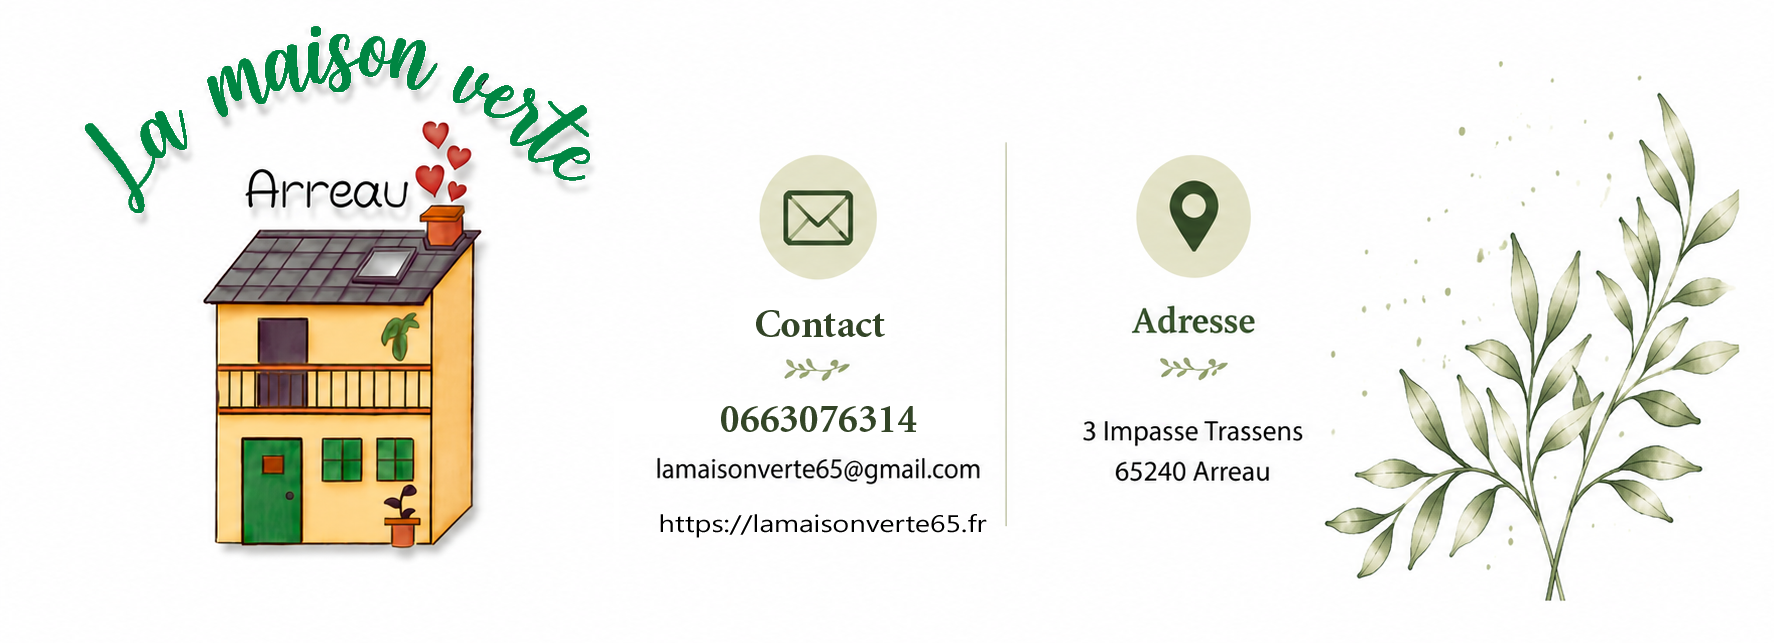
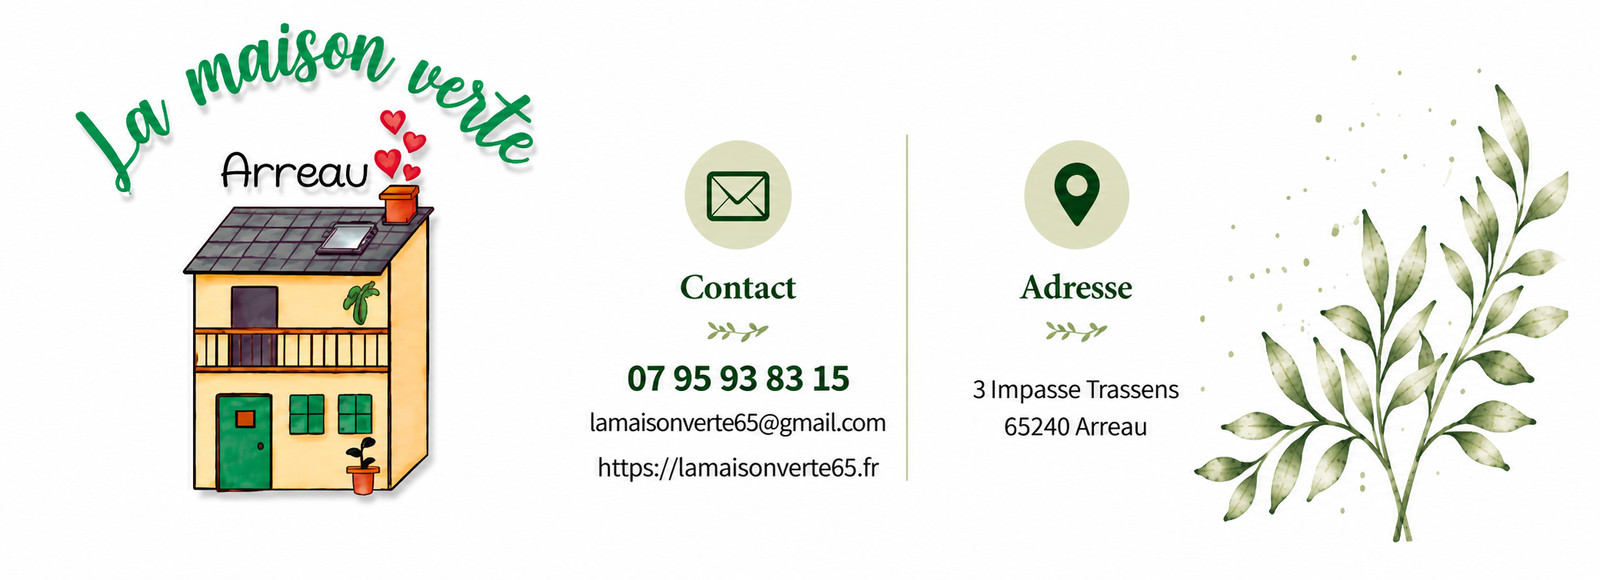
feat: harmonise les informations publiques du logement

diff --git a/src/pages/LivretAccueil.jsx b/src/pages/LivretAccueil.jsx
@@ -327,7 +327,7 @@ export default function LivretAccueil() {
               </div>
 
               <p>Le tableau électrique se situe derrière la porte d'entrée.</p>
-              <p>Le Wi-Fi est disponible dans le logement. La télévision est directement reliée à Internet par câble Ethernet. Les informations de connexion au Wi-Fi vous sont communiquées avant votre arrivée.</p>
+              <p>Le Wi-Fi 7 est disponible dans le logement. La télévision est directement reliée à Internet par câble Ethernet. Les informations de connexion au Wi-Fi vous sont communiquées avant votre arrivée.</p>
               <p>Une poubelle de tri est à votre disposition dans le logement. Les conteneurs de tri sont situés à l'entrée du parking du Monument aux Morts. En sortant de l'impasse, tournez à droite puis continuez tout droit.</p>
               <p>De l'huile, du sel, du sucre, du café ainsi que quelques condiments sont laissés à votre disposition pour faciliter votre arrivée ou les courts séjours, merci de ne pas en abuser.</p>
               <p>Vous trouverez aussi des tablettes de lave vaisselle sous l'évier.</p>
@@ -383,12 +383,15 @@ export default function LivretAccueil() {
               <h2>Linge de maison</h2>
             </div>
 
+            <p>Les serviettes de toilette sont fournies : une grande serviette 70 × 140 cm et une petite serviette 33 × 50 cm par personne.</p>
+
             <p>Merci de déposer le linge utilisé dans la buanderie :</p>
 
             <ul>
               <li>draps ;</li>
               <li>housses de couette ;</li>
               <li>taies d'oreiller ;</li>
+              <li>serviettes de toilette ;</li>
               <li>tapis de salle de bain ;</li>
               <li>torchons.</li>
             </ul>
@@ -401,24 +404,15 @@ export default function LivretAccueil() {
             </div>
 
             <p>
-              Aucun forfait ménage n'est inclus dans votre réservation.
+              Si vous avez choisi le forfait ménage de fin de séjour lors de votre réservation,
+              vous n'avez pas à effectuer le ménage complet avant votre départ.
             </p>
             <p>
-              Nous vous remercions de rendre le logement dans un état
-              de propreté similaire à celui dans lequel vous l'avez trouvé
-              à votre arrivée.
+              Si vous avez choisi d'effectuer vous-même le ménage de fin de séjour,
+              merci de rendre le logement dans un état de propreté similaire à celui
+              dans lequel vous l'avez trouvé à votre arrivée.
             </p>
-            <p>Vous trouverez tous les éléments sous l'évier et dans la buanderie</p>
-
-            <p>
-              Si vous préférez ne pas effectuer le ménage de fin de séjour,
-              merci de nous contacter avant votre départ.
-            </p>
-
-            <p>
-              Selon nos disponibilités, nous pourrons vous proposer
-              un forfait ménage de 30 €.
-            </p>
+            <p>Vous trouverez tous les éléments nécessaires sous l'évier et dans la buanderie.</p>
           </article>
 
           <article className="livret-info-card">
@@ -1085,6 +1079,7 @@ export default function LivretAccueil() {
                       <li><span>2</span>Grandes tasses vert/noir</li>
                       <li><span>2</span>Grands bols noir/vert</li>
                       <li><span>1</span>Grille-pain</li>
+                      <li><span>1</span>Congélateur</li>
                       <li><span>1</span>Passoire</li>
                       <li><span>1</span>Petite louche</li>
                       <li><span>6</span>Petites cuillères</li>

diff --git a/src/pages/MaisonVerte.jsx b/src/pages/MaisonVerte.jsx
@@ -57,7 +57,7 @@ export default function MaisonVerte() {
   const [openFaqCategory, setOpenFaqCategory] = useState(null);
   const googleReviewUrl = "https://g.page/r/CasA-_8IxkGjEBM/review";
   const googleProfileUrl = "https://g.page/r/CasA-_8IxkGjEBM";
-  const ENABLE_SITE_REVIEWS = false;
+  const ENABLE_SITE_REVIEWS = true;
   const galleryPhotos = [
     {
       src: "/salon-salle-a-manger-maison-verte.webp",
@@ -864,7 +864,7 @@ export default function MaisonVerte() {
               "https://lamaisonverte65.fr/balcon-plein-sud-ouest.webp",
               "https://lamaisonverte65.fr/halle-et-mairie-arreau.webp",
             ],
-            telephone: "+33663076314",
+            telephone: "+33795938315",
             email: "lamaisonverte65@gmail.com",
             address: {
               "@type": "PostalAddress",
@@ -932,7 +932,7 @@ export default function MaisonVerte() {
                 },
                 {
                   "@type": "LocationFeatureSpecification",
-                  name: "Wi-Fi",
+                  name: "Wi-Fi 7",
                   value: true,
                 },
                 {
@@ -1409,6 +1409,7 @@ export default function MaisonVerte() {
               <div>⛷ Situation centrale stratégique </div>
               <div>🚴 Hébergement idéal pour cyclistes</div>
               <div>🏍 Accueil pratique pour motards</div>
+              <div>📶 Wi-Fi 7</div>
               <div>🤝 Réservation directe propriétaire</div>
               <div>🐕 Animaux non acceptés</div>
             </div>
@@ -1427,9 +1428,9 @@ export default function MaisonVerte() {
             "Cuisine équipée",
             "Machine à laver",
             "Lave-vaisselle",
-            "Mini congélateur",
+            "Congélateur",
             "Smart TV",
-            "Wi-Fi",
+            "Wi-Fi 7",
             "Cafetière italienne",
             "Cafetière à filtres",
             "Bouilloire",
@@ -1440,7 +1441,8 @@ export default function MaisonVerte() {
             "Lit parapluie",
             "58 m²",
             "Balcon avec table et chaises",
-            "Linge de lit fourni",
+            "Linge de lit et serviettes fournis",
+            "Poubelle de tri",
             "Animaux non acceptés",
             "Réservation directe propriétaire",
             "Parking gratuit proche",
@@ -1989,7 +1991,7 @@ export default function MaisonVerte() {
                   9,5/10
                 </div>
 
-                <p>Basé sur 44 expériences vécues</p>
+                <p>Basé sur 50 expériences vécues</p>
 
                 <div
                   style={{
@@ -3442,7 +3444,7 @@ export default function MaisonVerte() {
             }}
           >
             <a
-              href="tel:+33663076314"
+              href="tel:+33795938315"
               style={{
                 display: "inline-flex",
                 alignItems: "center",
@@ -3457,7 +3459,7 @@ export default function MaisonVerte() {
                 boxShadow: "0 10px 30px rgba(0,0,0,0.06)",
               }}
             >
-              📞 06 63 07 63 14
+              📞 07 95 93 83 15
             </a>
           </div>
 

diff --git a/src/pages/MentionsLegales.jsx b/src/pages/MentionsLegales.jsx
@@ -75,8 +75,8 @@ export default function MentionsLegales() {
             </a>
             <br />
             <strong>Téléphone :</strong> 
-            <a href="tel:+33663076314" style={linkStyle}>
-              +33 6 63 07 63 14
+            <a href="tel:+33795938315" style={linkStyle}>
+              +33 7 95 93 83 15
             </a>
           </p>
 

diff --git a/src/pages/AppelerRedirect.jsx b/src/pages/AppelerRedirect.jsx
@@ -2,7 +2,7 @@ import { useEffect } from "react";
 
 export default function AppelerRedirect() {
   useEffect(() => {
-    window.location.href = "tel:+33663076314";
+    window.location.href = "tel:+33795938315";
   }, []);
 
   return <p>Ouverture de l'application téléphone...</p>;
